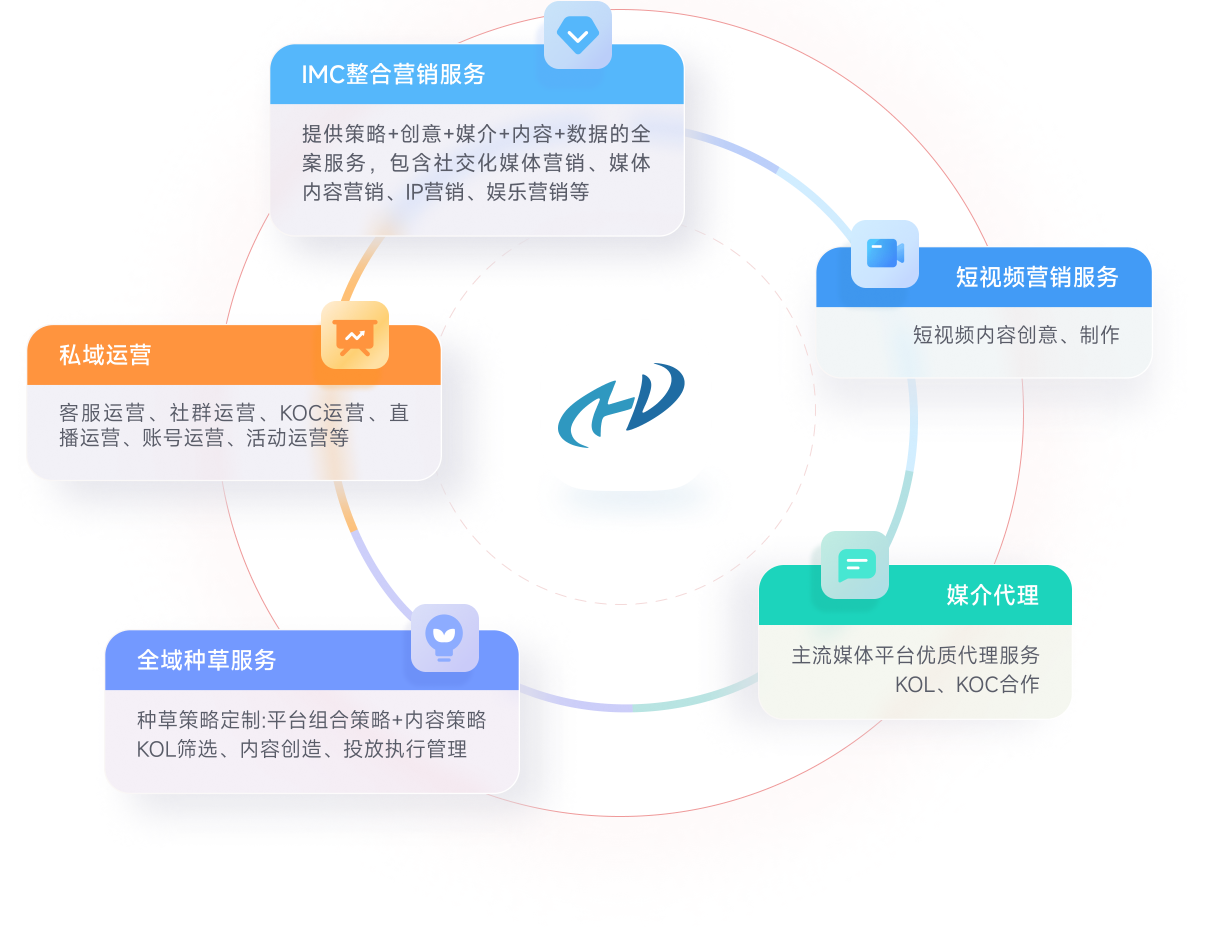
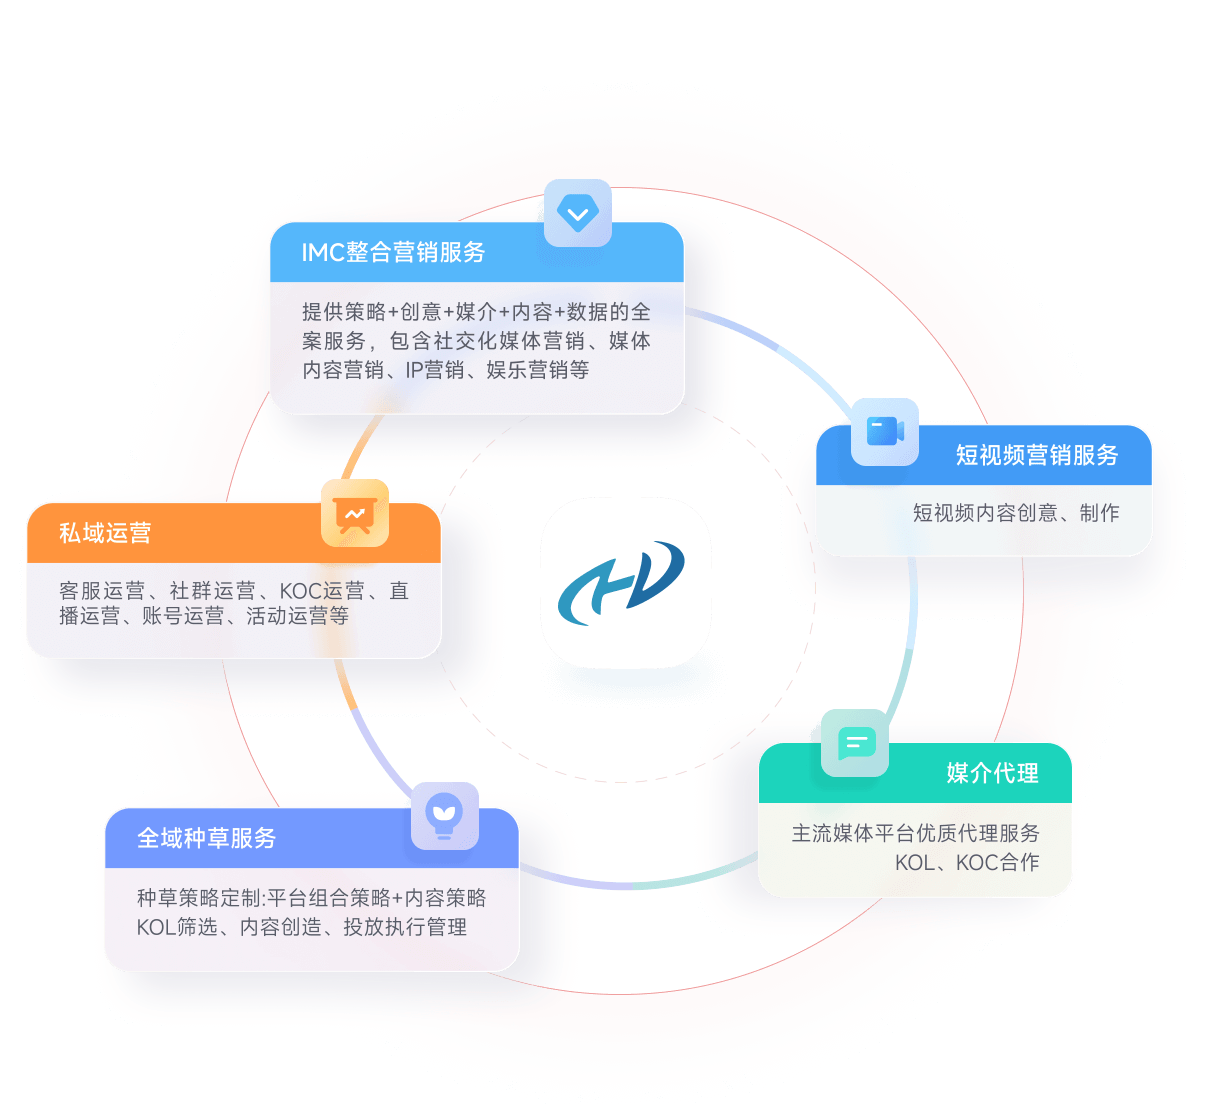
feat: 1、微调样式

diff --git a/business/style.css b/business/style.css
@@ -363,6 +363,7 @@
   text-align: center;
   letter-spacing: 0;
   line-height: 28.8px;
+  top: -28px;
 }
 
 .element .frame-4 {
@@ -400,6 +401,7 @@
   letter-spacing: 0;
   line-height: 15.6px;
   white-space: nowrap;
+  top: -20px;
 }
 
 .element .frame-5 {
@@ -445,6 +447,7 @@
   font-family: "MiSans-Medium", Helvetica;
   font-weight: 500;
   letter-spacing: 0;
+  top: -20px;
 }
 
 .element .frame-7 {
@@ -494,6 +497,7 @@
   text-align: center;
   letter-spacing: 0;
   line-height: 33.6px;
+  top: -28px;
 }
 
 .element .text-wrapper-6 {

diff --git a/about/index.html b/about/index.html
@@ -220,7 +220,7 @@
           <div class="frame-23">
             <div class="frame-24">
               <div class="frame-25"><div class="text-wrapper-6">资源整合型的私域营销顾问</div></div>
-              <img class="image" src="https://s21.ax1x.com/2024/06/26/pkyun8x.png" />
+              <img class="image" src="https://s21.ax1x.com/2024/06/26/pkywX40.png" />
             </div>
           </div>
         </div>

diff --git a/about/style.css b/about/style.css
@@ -791,7 +791,6 @@
   flex-direction: column;
   align-items: center;
   justify-content: center;
-  gap: 80px;
   position: relative;
   top: 120px;
   left: 361px;
